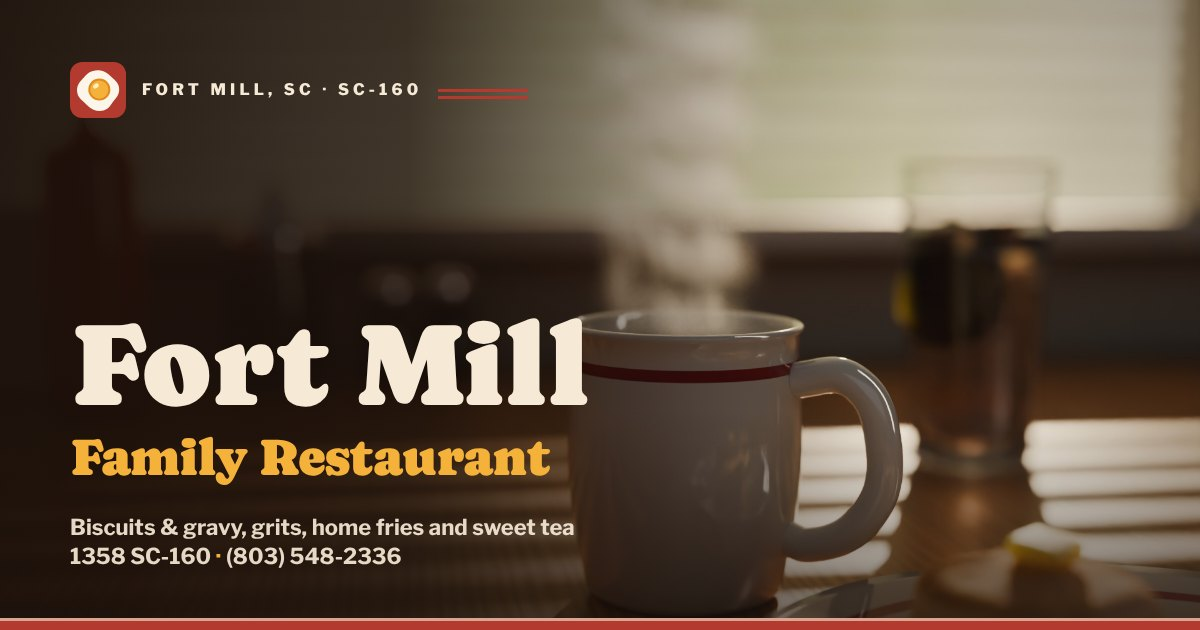
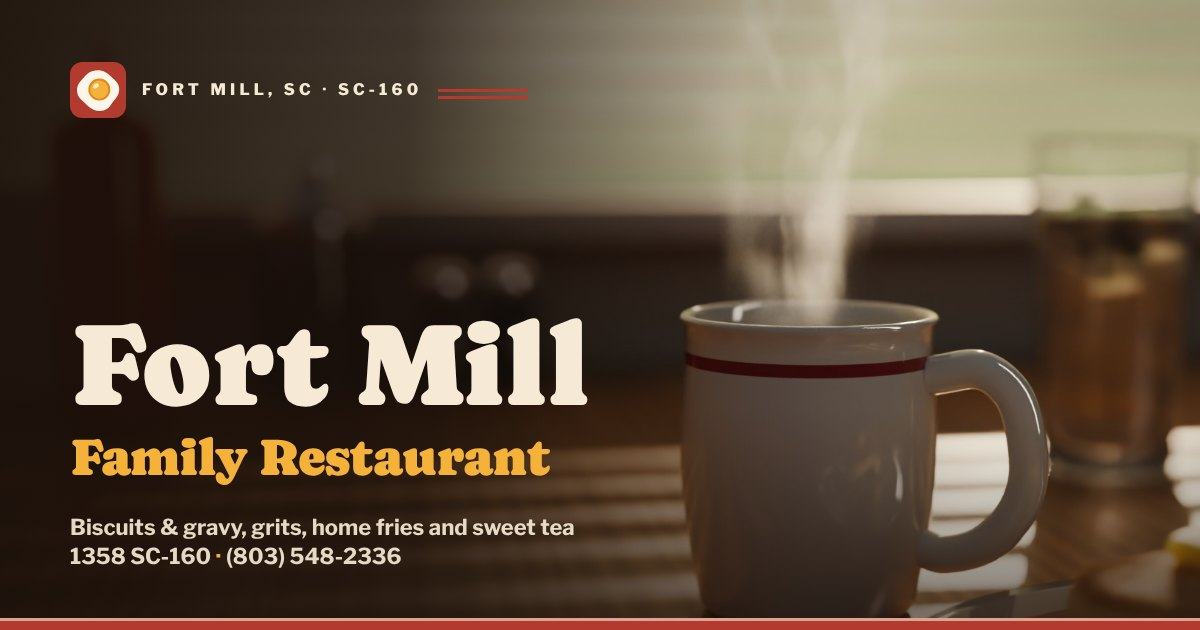
Final OG card from the rendered film; recompose the phone hero
The phone cut is a tall frame with the mug low in it, so on phones the
headline now sits over the darkened window with the steam rising toward
it, the mug stays clear mid-frame and the facts sit on the table. Call
and directions live in the always-visible dock there, the film control
becomes a 44px icon button, and the film layer drops the overscan it
doesn't need (a slower layer never uncovers an edge).

Claude-Session: https://claude.ai/code/session_01UywJddkiqCZkpRvZxW8icm

diff --git a/site/index.html b/site/index.html
@@ -349,15 +349,21 @@ h2{font-family:var(--display);font-size:clamp(2.3rem,1.3rem + 3.6vw,4.3rem);line
   .brand-mark{width:40px;height:40px}
   .hero{min-height:calc(100svh - var(--dock))}
   .hero-media img,.hero-video{object-position:50% 50%}
+  /* phones: headline over the window, the mug clear mid-frame, facts on the
+     table; call/directions live in the dock */
+  .hero{align-items:stretch}
+  .hero-media{inset:0}
   .hero-shade{background:
-    linear-gradient(0deg,rgba(28,17,11,.94) 0%,rgba(28,17,11,.82) 30%,rgba(28,17,11,.25) 52%,rgba(28,17,11,0) 64%),
-    linear-gradient(180deg,rgba(28,17,11,.6) 0%,rgba(28,17,11,0) 18%)}
-  .hero-content{padding-bottom:84px}
+    linear-gradient(180deg,rgba(28,17,11,.9) 0%,rgba(28,17,11,.78) 32%,rgba(28,17,11,.18) 50%,rgba(28,17,11,0) 60%),
+    linear-gradient(0deg,rgba(28,17,11,.88) 0%,rgba(28,17,11,0) 24%)}
+  .hero-content{display:flex;flex-direction:column;padding-top:calc(84px + env(safe-area-inset-top));padding-bottom:22px}
+  .hero-cta{display:none}
   .hero-stamp{display:none}
-  .hero-facts{font-size:.84rem;gap:.45rem}
+  .hero-facts{font-size:.84rem;gap:.45rem;margin-top:auto;padding-top:1.4rem;padding-right:56px}
   .hero-facts li{padding:.38rem .7rem;border-radius:999px;background:rgba(246,234,214,.1);border:1px solid rgba(246,234,214,.18)}
   .hero-facts li+li::before{display:none}
-  .video-toggle{top:calc(76px + env(safe-area-inset-top));bottom:auto;right:var(--gutter);padding:.45rem .8rem .45rem .65rem}
+  .video-toggle{bottom:22px;right:var(--gutter);width:44px;height:44px;padding:0;justify-content:center}
+  .video-toggle span{position:absolute;width:1px;height:1px;overflow:hidden;clip:rect(0 0 0 0);white-space:nowrap}
   .hero-cta .btn{flex:1 1 auto}
   .facts{grid-template-columns:1fr}
   .art-note{left:-2%;width:min(70%,240px)}
